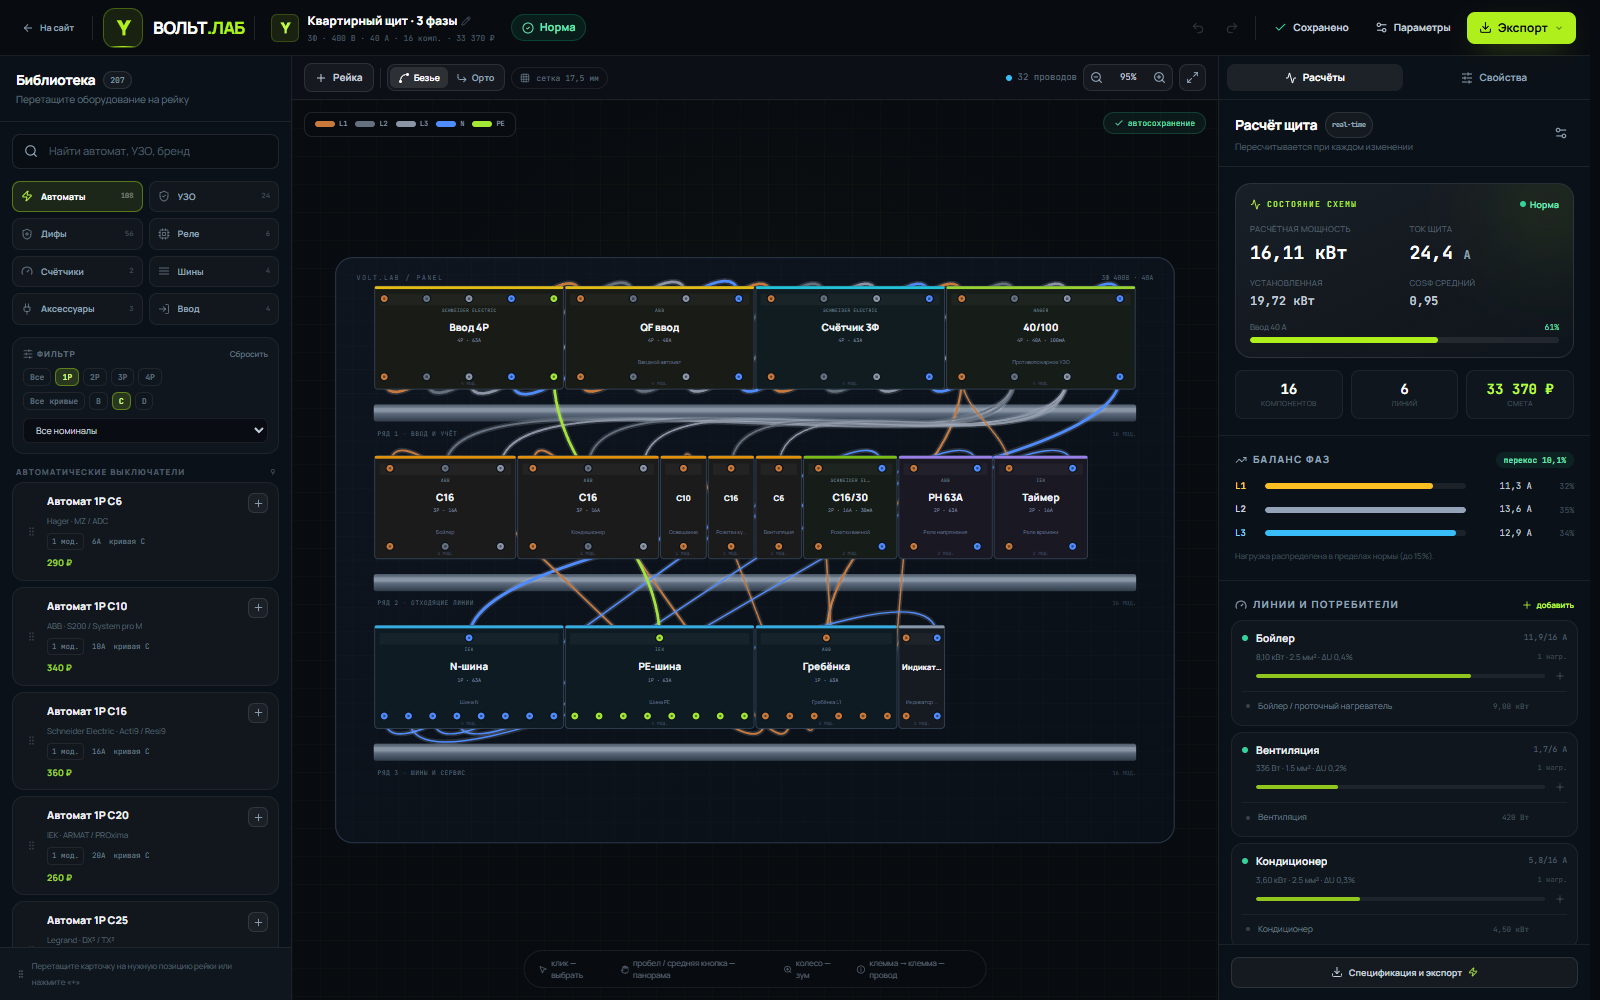
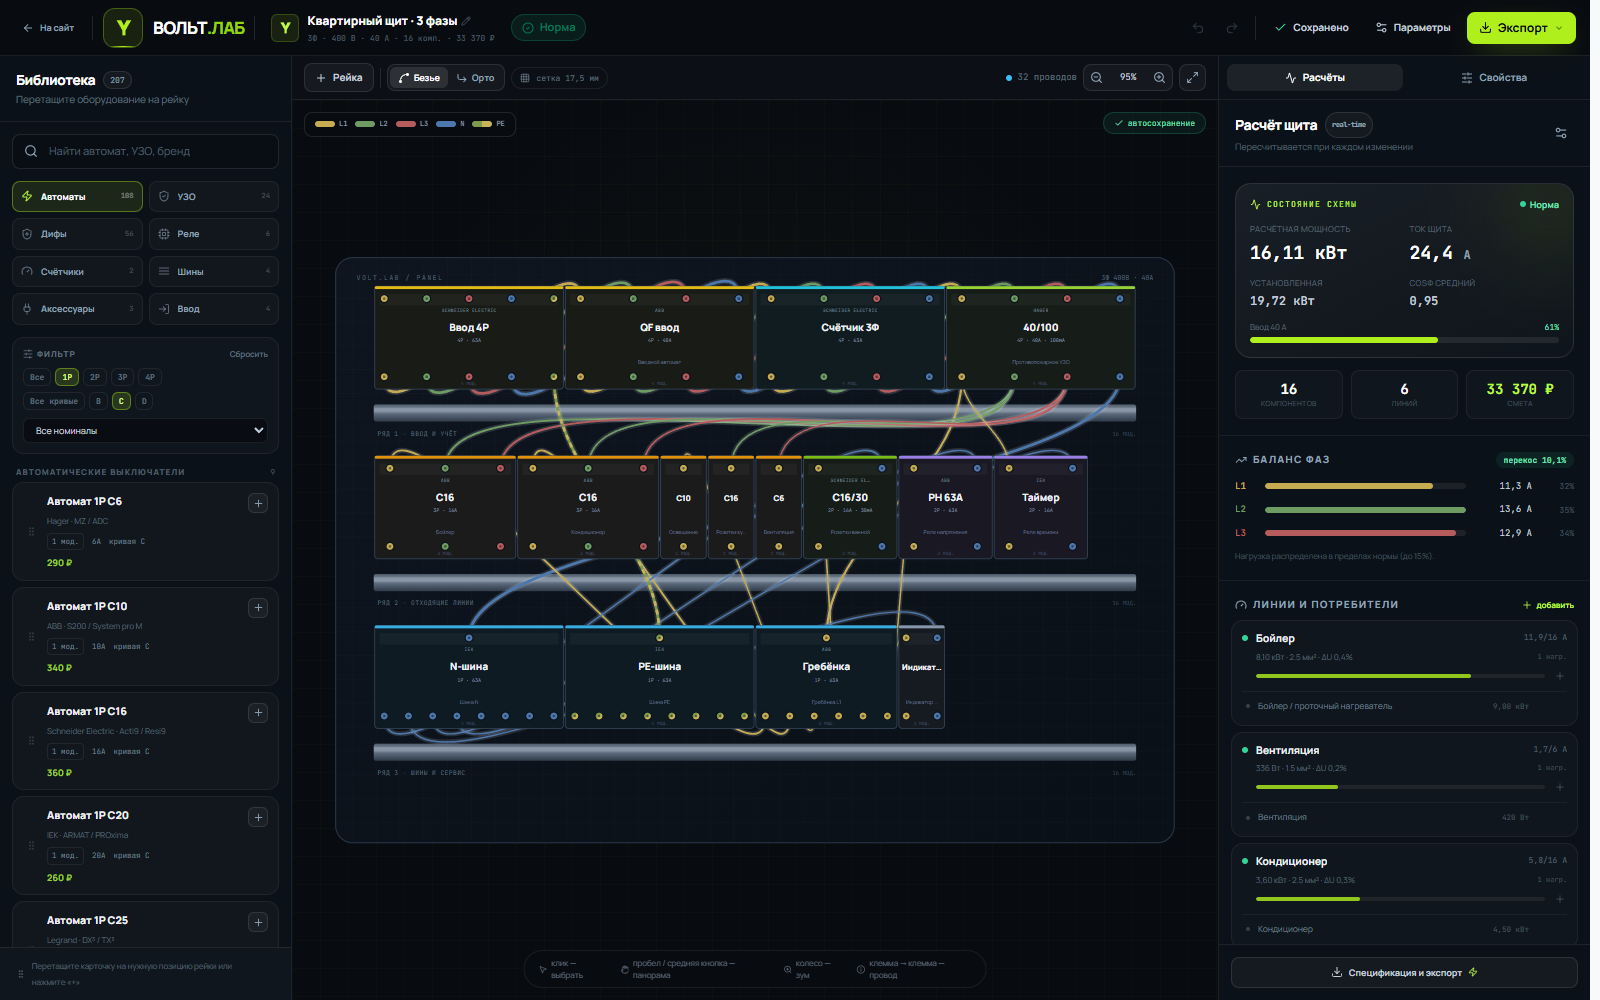
feat(editor): support mixed-width swaps and update conductor colors

diff --git a/src/components/editor/PanelCanvas.vue b/src/components/editor/PanelCanvas.vue
@@ -29,7 +29,15 @@ import {
 } from '@/config/editor'
 import { railAtWorldY, findFreeModule, findOverlapTarget } from '@/services/layoutEngine'
 import { bezierPath, clamp, orthogonalPath } from '@/utils/geometry'
-import { PHASE_COLORS, TERMINAL_COLORS, wireColor } from '@/utils/wire'
+import {
+  NEUTRAL_COLOR,
+  PE_GREEN,
+  PE_LEGEND_STYLE,
+  PE_YELLOW,
+  PHASE_COLORS,
+  TERMINAL_COLORS,
+  wireColor,
+} from '@/utils/wire'
 import { formatRub } from '@/utils/format'
 import { getComponentDef } from '@/data/library'
 
@@ -200,10 +208,19 @@ const wireViews = computed(() => {
         color: core,
         width: Math.min(4.2, 1.3 + wire.crossSection * 0.16),
         selected: panel.selectedWireUid === wire.uid,
+        striped: wire.kind === 'ground' && !wire.color,
       },
     ]
   })
 })
+
+const legendItems = [
+  { label: 'L1', color: PHASE_COLORS.L1 },
+  { label: 'L2', color: PHASE_COLORS.L2 },
+  { label: 'L3', color: PHASE_COLORS.L3 },
+  { label: 'N', color: NEUTRAL_COLOR },
+  { label: 'PE', color: PE_LEGEND_STYLE },
+]
 
 function terminalHitRadius(component: LayoutComponent): number {
   const count = component.terminals.filter((terminal) => terminal.side === 'in').length
@@ -726,6 +743,12 @@ onBeforeUnmount(() => {
             <stop offset="55%" stop-color="#647386" />
             <stop offset="100%" stop-color="#333f4d" />
           </linearGradient>
+          <linearGradient id="pe-terminal-gradient" x1="0%" y1="0%" x2="100%" y2="100%">
+            <stop offset="0%" :stop-color="PE_GREEN" />
+            <stop offset="49%" :stop-color="PE_GREEN" />
+            <stop offset="50%" :stop-color="PE_YELLOW" />
+            <stop offset="100%" :stop-color="PE_YELLOW" />
+          </linearGradient>
           <filter id="soft-glow" x="-50%" y="-50%" width="200%" height="200%">
             <feGaussianBlur stdDeviation="3" result="blur" />
             <feMerge>
@@ -814,6 +837,16 @@ onBeforeUnmount(() => {
                 stroke-linecap="round"
                 :stroke-dasharray="wireView.wire.kind === 'jumper' ? '5 3' : undefined"
                 :filter="wireView.selected ? 'url(#soft-glow)' : undefined"
+                pointer-events="none"
+              />
+              <path
+                v-if="wireView.striped"
+                :d="wireView.path"
+                fill="none"
+                :stroke="PE_YELLOW"
+                :stroke-width="wireView.width"
+                stroke-linecap="butt"
+                stroke-dasharray="5 4"
                 pointer-events="none"
               />
               <path
@@ -1112,9 +1145,9 @@ onBeforeUnmount(() => {
       </svg>
 
       <div class="pointer-events-none absolute left-3 top-3 hidden items-center gap-2 rounded-lg border border-white/10 bg-ink-950/85 px-2.5 py-1.5 backdrop-blur sm:flex">
-        <span v-for="(color, label) in { ...PHASE_COLORS, N: '#4f8cff', PE: '#a3e635' }" :key="label" class="inline-flex items-center gap-1 font-mono text-[7px] text-cloud-400">
-          <span class="h-1.5 w-5 rounded-full" :style="{ backgroundColor: color }"></span>
-          {{ label }}
+        <span v-for="item in legendItems" :key="item.label" class="inline-flex items-center gap-1 font-mono text-[7px] text-cloud-400">
+          <span class="h-1.5 w-5 rounded-full" :style="{ background: item.color }"></span>
+          {{ item.label }}
         </span>
       </div>
 

diff --git a/src/services/layoutEngine.ts b/src/services/layoutEngine.ts
@@ -335,6 +335,60 @@ export function reorderOnRail(
         targetUid: target.uid,
       }
     }
+
+    // Если аппараты разной ширины, прямой обмен стартовыми позициями даёт
+    // наложение на соседний модуль. Меняем порядок двух аппаратов в ряду и
+    // пересобираем участок от более левого из них: так 4P и 3P обмениваются
+    // местами, а соседний 1P сдвигается на освободившийся модуль.
+    if (moving.dinRailId === targetRailId) {
+      const railItems = project.components
+        .filter((item) => item.dinRailId === targetRailId)
+        .sort((a, b) => a.position - b.position)
+      const movingIndex = railItems.findIndex((item) => item.uid === componentUid)
+      const targetIndex = railItems.findIndex((item) => item.uid === target.uid)
+      if (movingIndex >= 0 && targetIndex >= 0) {
+        const reordered = [...railItems]
+        const movingItem = reordered[movingIndex]
+        const targetItem = reordered[targetIndex]
+        if (movingItem && targetItem) {
+          reordered[movingIndex] = targetItem
+          reordered[targetIndex] = movingItem
+          const anchorIndex = Math.min(movingIndex, targetIndex)
+          const anchorPosition = railItems[anchorIndex]?.position ?? 0
+          const placeFrom = (startPosition: number, fromIndex: number): Map<string, number> | null => {
+            const placements = new Map<string, number>()
+            let cursor = startPosition
+            for (let index = fromIndex; index < reordered.length; index += 1) {
+              const item = reordered[index]
+              if (!item) continue
+              placements.set(item.uid, cursor)
+              cursor += componentSize(item)
+            }
+            return cursor <= targetRail.capacity ? placements : null
+          }
+          const placements =
+            placeFrom(anchorPosition, anchorIndex) ??
+            placeFrom(0, 0)
+          if (placements) {
+            const sequenceSwapped = project.components.map((item) => {
+              const position = placements.get(item.uid)
+              return position === undefined ? item : { ...item, dinRailId: targetRailId, position }
+            })
+            if (validRailPlacement(sequenceSwapped, project.rails)) {
+              const position = placements.get(componentUid) ?? target.position
+              return {
+                components: sequenceSwapped,
+                ok: true,
+                position,
+                snapped: false,
+                kind: 'swap',
+                targetUid: target.uid,
+              }
+            }
+          }
+        }
+      }
+    }
   }
 
   // Резервный сценарий для аппаратов разной ширины: вставляем в позицию

diff --git a/src/views/HomeView.vue b/src/views/HomeView.vue
@@ -28,6 +28,7 @@ import { useLibraryStore } from '@/stores/libraryStore'
 import { usePageMeta } from '@/composables/usePageMeta'
 import { CATEGORY_META } from '@/data/library'
 import { CATEGORY_ORDER } from '@/config/editor'
+import { NEUTRAL_COLOR, PE_GREEN, PHASE_COLORS } from '@/utils/wire'
 
 const library = useLibraryStore()
 const articles = computed(() => ARTICLES.slice(0, 3))
@@ -236,9 +237,9 @@ const workflow = [
               </div>
             </div>
             <svg class="pointer-events-none absolute inset-x-0 bottom-0 h-24 w-full opacity-50" viewBox="0 0 700 100" preserveAspectRatio="none" aria-hidden="true">
-              <path d="M190 20v18c0 12 10 18 22 18h150c12 0 22 6 22 18v12" stroke="#4f8cff" stroke-width="1.4" fill="none" />
-              <path d="M330 20v10c0 14 12 20 26 20h132c14 0 26 8 26 22v14" stroke="#a3e635" stroke-width="1.4" fill="none" />
-              <path d="M450 20v40c0 14 12 22 26 22h100" stroke="#c97a3a" stroke-width="1.4" fill="none" />
+              <path d="M190 20v18c0 12 10 18 22 18h150c12 0 22 6 22 18v12" :stroke="NEUTRAL_COLOR" stroke-width="1.4" fill="none" />
+              <path d="M330 20v10c0 14 12 20 26 20h132c14 0 26 8 26 22v14" :stroke="PE_GREEN" stroke-width="1.4" fill="none" />
+              <path d="M450 20v40c0 14 12 22 26 22h100" :stroke="PHASE_COLORS.L1" stroke-width="1.4" fill="none" />
             </svg>
           </div>
 
@@ -262,13 +263,13 @@ const workflow = [
             </p>
             <div class="mt-5 space-y-3">
               <div v-for="phase in [
-                { name: 'L1', value: 78, current: '14,7 А', color: 'bg-amber-500' },
-                { name: 'L2', value: 86, current: '15,6 А', color: 'bg-slate-500' },
-                { name: 'L3', value: 74, current: '15,0 А', color: 'bg-sky-500' },
+                { name: 'L1', value: 78, current: '14,7 А', color: PHASE_COLORS.L1 },
+                { name: 'L2', value: 86, current: '15,6 А', color: PHASE_COLORS.L2 },
+                { name: 'L3', value: 74, current: '15,0 А', color: PHASE_COLORS.L3 },
               ]" :key="phase.name" class="flex items-center gap-3">
                 <span class="w-5 font-mono text-[10px] font-bold text-ink-500 dark:text-cloud-400">{{ phase.name }}</span>
                 <div class="h-1.5 flex-1 overflow-hidden rounded-full bg-cloud-200 dark:bg-white/[.07]">
-                  <div class="h-full rounded-full transition-all duration-700" :class="phase.color" :style="{ width: `${phase.value}%` }"></div>
+                  <div class="h-full rounded-full transition-all duration-700" :style="{ width: `${phase.value}%`, backgroundColor: phase.color }"></div>
                 </div>
                 <span class="w-12 text-right font-mono text-[10px] font-semibold text-ink-600 dark:text-cloud-300">{{ phase.current }}</span>
               </div>

diff --git a/src/components/home/HeroPanel.vue b/src/components/home/HeroPanel.vue
@@ -1,6 +1,7 @@
 <script setup lang="ts">
 import { computed, ref } from 'vue'
 import { Activity, ShieldCheck, Zap } from 'lucide-vue-next'
+import { NEUTRAL_COLOR, PE_GREEN, PHASE_COLORS } from '@/utils/wire'
 
 interface DemoModule {
   id: string
@@ -92,19 +93,19 @@ function select(id: string): void {
             preserveAspectRatio="none"
             aria-hidden="true"
           >
-            <path d="M74 30V70H496V100" stroke="#c97a3a" stroke-width="1.3" opacity=".55" />
-            <path d="M120 30V56H448V100" stroke="#66717f" stroke-width="1.3" opacity=".45" />
-            <path d="M160 30V42H400V100" stroke="#8b95a5" stroke-width="1.3" opacity=".4" />
-            <path d="M205 30V88H300V130" stroke="#4f8cff" stroke-width="1.3" opacity=".45" />
-            <path d="M74 120V162H230V190" stroke="#c97a3a" stroke-width="1.2" opacity=".35" />
-            <path d="M520 120V162H430V190" stroke="#8b95a5" stroke-width="1.2" opacity=".3" />
-            <path d="M120 222V250H300V282" stroke="#4f8cff" stroke-width="1.2" opacity=".3" />
-            <path d="M470 222V250H340V282" stroke="#a3e635" stroke-width="1.2" opacity=".3" />
-            <circle cx="300" cy="130" r="2.4" fill="#94d40d" />
-            <circle cx="230" cy="190" r="2.4" fill="#94d40d" />
-            <circle cx="430" cy="190" r="2.4" fill="#94d40d" />
-            <circle cx="300" cy="282" r="2.4" fill="#4f8cff" />
-            <circle cx="340" cy="282" r="2.4" fill="#a3e635" />
+            <path d="M74 30V70H496V100" :stroke="PHASE_COLORS.L1" stroke-width="1.3" opacity=".55" />
+            <path d="M120 30V56H448V100" :stroke="PHASE_COLORS.L2" stroke-width="1.3" opacity=".45" />
+            <path d="M160 30V42H400V100" :stroke="PHASE_COLORS.L3" stroke-width="1.3" opacity=".4" />
+            <path d="M205 30V88H300V130" :stroke="NEUTRAL_COLOR" stroke-width="1.3" opacity=".45" />
+            <path d="M74 120V162H230V190" :stroke="PHASE_COLORS.L1" stroke-width="1.2" opacity=".35" />
+            <path d="M520 120V162H430V190" :stroke="PHASE_COLORS.L3" stroke-width="1.2" opacity=".3" />
+            <path d="M120 222V250H300V282" :stroke="NEUTRAL_COLOR" stroke-width="1.2" opacity=".3" />
+            <path d="M470 222V250H340V282" :stroke="PE_GREEN" stroke-width="1.2" opacity=".3" />
+            <circle cx="300" cy="130" r="2.4" :fill="PHASE_COLORS.L1" />
+            <circle cx="230" cy="190" r="2.4" :fill="PHASE_COLORS.L1" />
+            <circle cx="430" cy="190" r="2.4" :fill="PHASE_COLORS.L3" />
+            <circle cx="300" cy="282" r="2.4" :fill="NEUTRAL_COLOR" />
+            <circle cx="340" cy="282" r="2.4" :fill="PE_GREEN" />
           </svg>
 
           <div class="relative space-y-3">

diff --git a/src/components/editor/CalculationPanel.vue b/src/components/editor/CalculationPanel.vue
@@ -20,6 +20,7 @@ import type { LoadConsumer, Severity } from '@/types'
 import { usePanelStore } from '@/stores/panelStore'
 import { useUiStore } from '@/stores/uiStore'
 import { formatNumber, formatPower, formatRub, pluralize } from '@/utils/format'
+import { PHASE_COLORS } from '@/utils/wire'
 
 const emit = defineEmits<{
   'add-consumer': [componentUid?: string]
@@ -46,17 +47,7 @@ const sortedIssues = computed(() =>
   [...calc.value.issues].sort((a, b) => (a.severity === 'error' ? -1 : 1) - (b.severity === 'error' ? -1 : 1)),
 )
 
-const phaseColor: Record<string, string> = {
-  L1: 'bg-amber-400',
-  L2: 'bg-slate-400',
-  L3: 'bg-sky-400',
-}
-
-const phaseText: Record<string, string> = {
-  L1: 'text-amber-300',
-  L2: 'text-slate-300',
-  L3: 'text-sky-300',
-}
+const phaseColor = PHASE_COLORS
 
 const linePower = (componentUid: string): number => {
   return project.value.consumers
@@ -201,12 +192,11 @@ function severityDot(severity: Severity): string {
         </div>
         <div class="mt-3 space-y-2.5">
           <div v-for="phase in calc.phases" :key="phase.phase" class="flex items-center gap-2.5">
-            <span class="w-5 font-mono text-[9px] font-bold" :class="phaseText[phase.phase]">{{ phase.phase }}</span>
+            <span class="w-5 font-mono text-[9px] font-bold" :style="{ color: phaseColor[phase.phase] }">{{ phase.phase }}</span>
             <div class="h-1.5 flex-1 overflow-hidden rounded-full bg-white/[.07]">
               <div
                 class="h-full rounded-full transition-all duration-500"
-                :class="phaseColor[phase.phase]"
-                :style="{ width: `${(phase.currentA / maxPhaseCurrent) * 100}%` }"
+                :style="{ width: `${(phase.currentA / maxPhaseCurrent) * 100}%`, backgroundColor: phaseColor[phase.phase] }"
               ></div>
             </div>
             <span class="w-14 text-right font-mono text-[9px] text-cloud-300">{{ formatNumber(phase.currentA, 1) }} А</span>

diff --git a/src/services/engines.test.ts b/src/services/engines.test.ts
@@ -125,7 +125,22 @@ describe('layout engine', () => {
     expect(result.components.find((item) => item.uid === 'c-qf-kitchen')?.position).toBe(6)
   })
 
-  it('перестраивает ряд, если обмен позициями невозможен из-за ширины', () => {
+  it('меняет местами аппараты разной ширины, сдвигая соседний модуль', () => {
+    const project = createEmptyProject()
+    project.components = [
+      { uid: 'four', defId: 'br-4p-c-16', dinRailId: 'rail-2', position: 0 },
+      { uid: 'three', defId: 'br-3p-c-16', dinRailId: 'rail-2', position: 4 },
+      { uid: 'single', defId: 'br-1p-c-16', dinRailId: 'rail-2', position: 7 },
+    ]
+    const result = reorderOnRail(project, 'four', 'rail-2', 4)
+    expect(result.ok).toBe(true)
+    expect(result.kind).toBe('swap')
+    expect(result.components.find((item) => item.uid === 'three')?.position).toBe(0)
+    expect(result.components.find((item) => item.uid === 'four')?.position).toBe(3)
+    expect(result.components.find((item) => item.uid === 'single')?.position).toBe(7)
+  })
+
+  it('меняет порядок при конфликте с соседними модулями', () => {
     const project = createEmptyProject()
     project.components = [
       { uid: 'wide', defId: 'br-4p-c-16', dinRailId: 'rail-2', position: 0 },
@@ -134,7 +149,7 @@ describe('layout engine', () => {
     ]
     const result = reorderOnRail(project, 'small', 'rail-2', 0)
     expect(result.ok).toBe(true)
-    expect(result.kind).toBe('reorder')
+    expect(result.kind).toBe('swap')
     const positions = result.components
       .filter((item) => item.dinRailId === 'rail-2')
       .map((item) => ({ uid: item.uid, start: item.position, end: item.position + (item.uid === 'wide' ? 4 : 1) }))

diff --git a/src/utils/wire.ts b/src/utils/wire.ts
@@ -1,17 +1,26 @@
 import type { PhaseTag, WireKind } from '@/types'
 
-/** Цвета проводников по ПУЭ; для тёмного холста добавлены светлые обводки. */
-export const WIRE_COLORS: Record<'phase' | 'neutral' | 'ground' | 'jumper', string> = {
-  phase: '#e2b04a',
-  neutral: '#4f8cff',
-  ground: '#a3e635',
-  jumper: '#f59e0b',
+/**
+ * Спокойная палитра проводников.
+ * L1 — жёлтый, L2 — зелёный, L3 — красный, N — синий.
+ * PE отображается двумя цветами: зелёный + жёлтый.
+ */
+export const PHASE_COLORS: Record<PhaseTag, string> = {
+  L1: '#c6ab52',
+  L2: '#6f9c63',
+  L3: '#b65c5c',
 }
 
-export const PHASE_COLORS: Record<PhaseTag, string> = {
-  L1: '#c97a3a',
-  L2: '#66717f',
-  L3: '#8b95a5',
+export const NEUTRAL_COLOR = '#4d78ae'
+export const PE_GREEN = '#7e9b4b'
+export const PE_YELLOW = '#c6b35c'
+export const JUMPER_COLOR = '#c39a4b'
+
+export const WIRE_COLORS: Record<'phase' | 'neutral' | 'ground' | 'jumper', string> = {
+  phase: PHASE_COLORS.L1,
+  neutral: NEUTRAL_COLOR,
+  ground: PE_GREEN,
+  jumper: JUMPER_COLOR,
 }
 
 export function wireColor(kind: WireKind, phase?: PhaseTag): string {
@@ -27,9 +36,12 @@ export const WIRE_KIND_LABEL: Record<WireKind, string> = {
 }
 
 export const TERMINAL_COLORS: Record<string, string> = {
-  L1: '#c97a3a',
-  L2: '#66717f',
-  L3: '#8b95a5',
-  N: '#4f8cff',
-  PE: '#a3e635',
+  L1: PHASE_COLORS.L1,
+  L2: PHASE_COLORS.L2,
+  L3: PHASE_COLORS.L3,
+  N: NEUTRAL_COLOR,
+  // Градиент объявлен в SVG-холсте редактора.
+  PE: 'url(#pe-terminal-gradient)',
 }
+
+export const PE_LEGEND_STYLE = `linear-gradient(90deg, ${PE_GREEN} 50%, ${PE_YELLOW} 50%)`

diff --git a/src/components/editor/PropertiesPanel.vue b/src/components/editor/PropertiesPanel.vue
@@ -305,9 +305,9 @@ const detailRows = computed(() => {
           <label v-if="wireKindModel === 'phase'" class="block">
             <span class="field-label !text-cloud-400">Фаза</span>
             <select v-model="wirePhaseModel" class="input !border-white/10 !bg-ink-950/60 !text-white">
-              <option value="L1">L1 — коричневый</option>
-              <option value="L2">L2 — чёрный</option>
-              <option value="L3">L3 — серый</option>
+              <option value="L1">L1 — жёлтый</option>
+              <option value="L2">L2 — зелёный</option>
+              <option value="L3">L3 — красный</option>
             </select>
           </label>
           <div class="grid grid-cols-2 gap-3">

diff --git a/README.md b/README.md
@@ -47,7 +47,7 @@
   - защита от дублирующих проводов.
 - Ошибка соединения подсвечивается кольцами на клеммах и уведомлением.
 - Провода: Безье/ортогональная трассировка, цвет по типу и фазе, сечение, изменение типа и цвета,
-  удаление. Проблемные аппараты обводятся красным/жёлтым по результатам расчёта.
+  удаление. Маркировка L1 — жёлтый, L2 — зелёный, L3 — красный, N — синий, PE — зелёный/жёлтый. Проблемные аппараты обводятся красным/жёлтым по результатам расчёта.
 - Потребители привязываются к защитным линиям: мощность, cosφ, коэффициент использования,
   однофазное/трёхфазное подключение и фаза.
 - Настройки кабеля каждой линии: сечение, медь/алюминий, ПВХ/XLPE, способ прокладки,
@@ -79,7 +79,7 @@ pnpm dev
 Приложение будет доступно на `http://127.0.0.1:5173`.
 
 ```bash
-pnpm test        # 18 доменных тестов
+pnpm test        # 19 доменных тестов
 pnpm typecheck   # строгая проверка TypeScript
 pnpm build       # production-сборка
 pnpm preview     # предпросмотр собранного приложения
